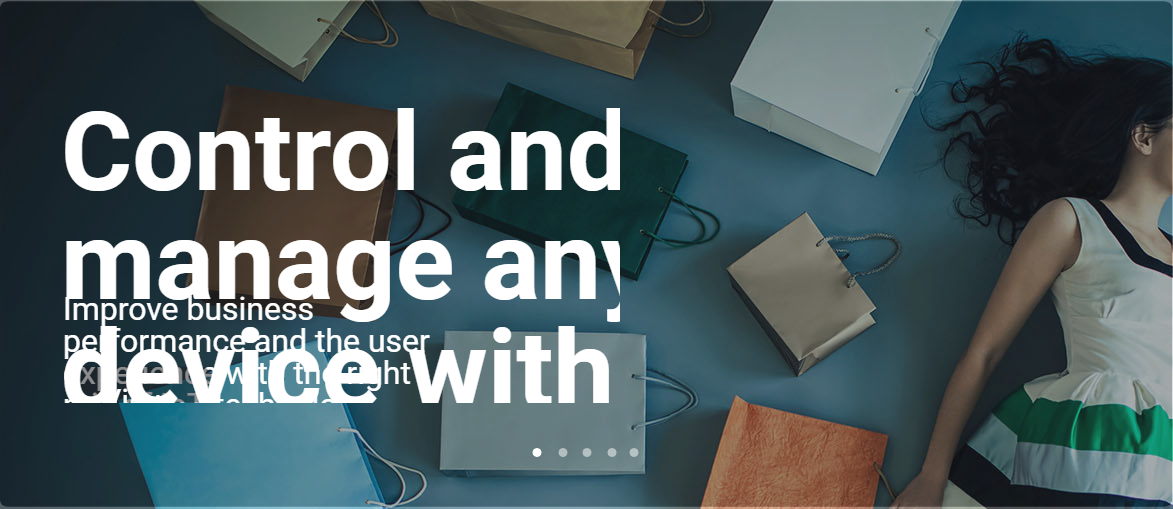
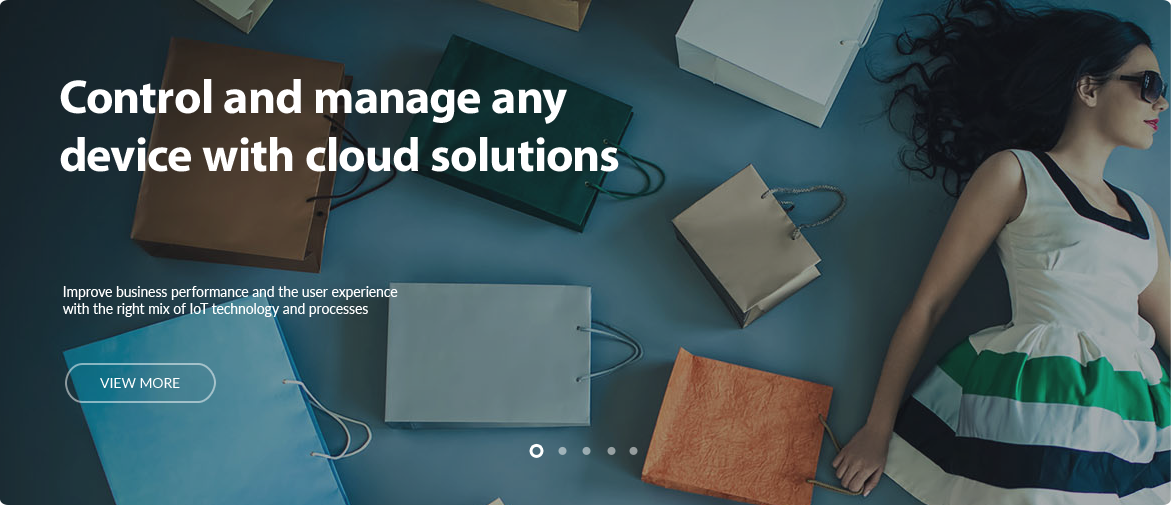
Slider photos are fixed and carousel indicators are removed. Next thing to do is make them all responsive.

diff --git a/Index.html b/Index.html
@@ -16,34 +16,28 @@
 </head>
 <body>
 <div id="header"></div>
-
 <div class="MainScreen">
-<div id="carouselExampleIndicators" class="carousel slide" data-bs-ride="carousel">
-    <div class="carousel-indicators">
-        <button type="button" data-bs-target="#carouselExampleIndicators" data-bs-slide-to="0" class="active" aria-current="true" aria-label="Slide 1"></button>
-        <button type="button" data-bs-target="#carouselExampleIndicators" data-bs-slide-to="1" aria-label="Slide 2"></button>
-        <button type="button" data-bs-target="#carouselExampleIndicators" data-bs-slide-to="2" aria-label="Slide 3"></button>
+    <div id="carouselExampleControls" class="carousel slide" data-bs-ride="carousel">
+        <div class="carousel-inner">
+            <div class="carousel-item active">
+                <img src="./Images/Slider_1.png" class="rounded mx-auto" alt="First Slider">
+            </div>
+            <div class="carousel-item">
+                <img src="./Images/Slider_2.png" class="rounded mx-auto" alt="Second Slider">
+            </div>
+            <div class="carousel-item">
+                <img src="./Images/Slider_3.png" class="rounded mx-auto" alt="Third Slider">
+            </div>
+        </div>
+        <button class="carousel-control-prev" type="button" data-bs-target="#carouselExampleControls" data-bs-slide="prev">
+            <span class="carousel-control-prev-icon" aria-hidden="true"></span>
+            <span class="visually-hidden">Previous</span>
+        </button>
+        <button class="carousel-control-next" type="button" data-bs-target="#carouselExampleControls" data-bs-slide="next">
+            <span class="carousel-control-next-icon" aria-hidden="true"></span>
+            <span class="visually-hidden">Next</span>
+        </button>
     </div>
-    <div class="carousel-inner">
-        <div class="carousel-item active">
-            <img src="./Images/Slider_1.png" class="rounded mx-auto" alt="First Slider">
-        </div>
-        <div class="carousel-item">
-            <img src="./Images/Slider_2.png" class="rounded mx-auto" alt="Second Slider">
-        </div>
-        <div class="carousel-item">
-            <img src="./Images/Slider_3.png" class="rounded mx-auto" alt="Third Slider">
-        </div>
-    </div>
-    <button class="carousel-control-prev" type="button" data-bs-target="#carouselExampleIndicators" data-bs-slide="prev">
-        <span class="carousel-control-prev-icon" aria-hidden="true"></span>
-        <span class="visually-hidden">Previous</span>
-    </button>
-    <button class="carousel-control-next" type="button" data-bs-target="#carouselExampleIndicators" data-bs-slide="next">
-        <span class="carousel-control-next-icon" aria-hidden="true"></span>
-        <span class="visually-hidden">Next</span>
-    </button>
-</div>
 </div>
 
 <div id="footer"></div>
